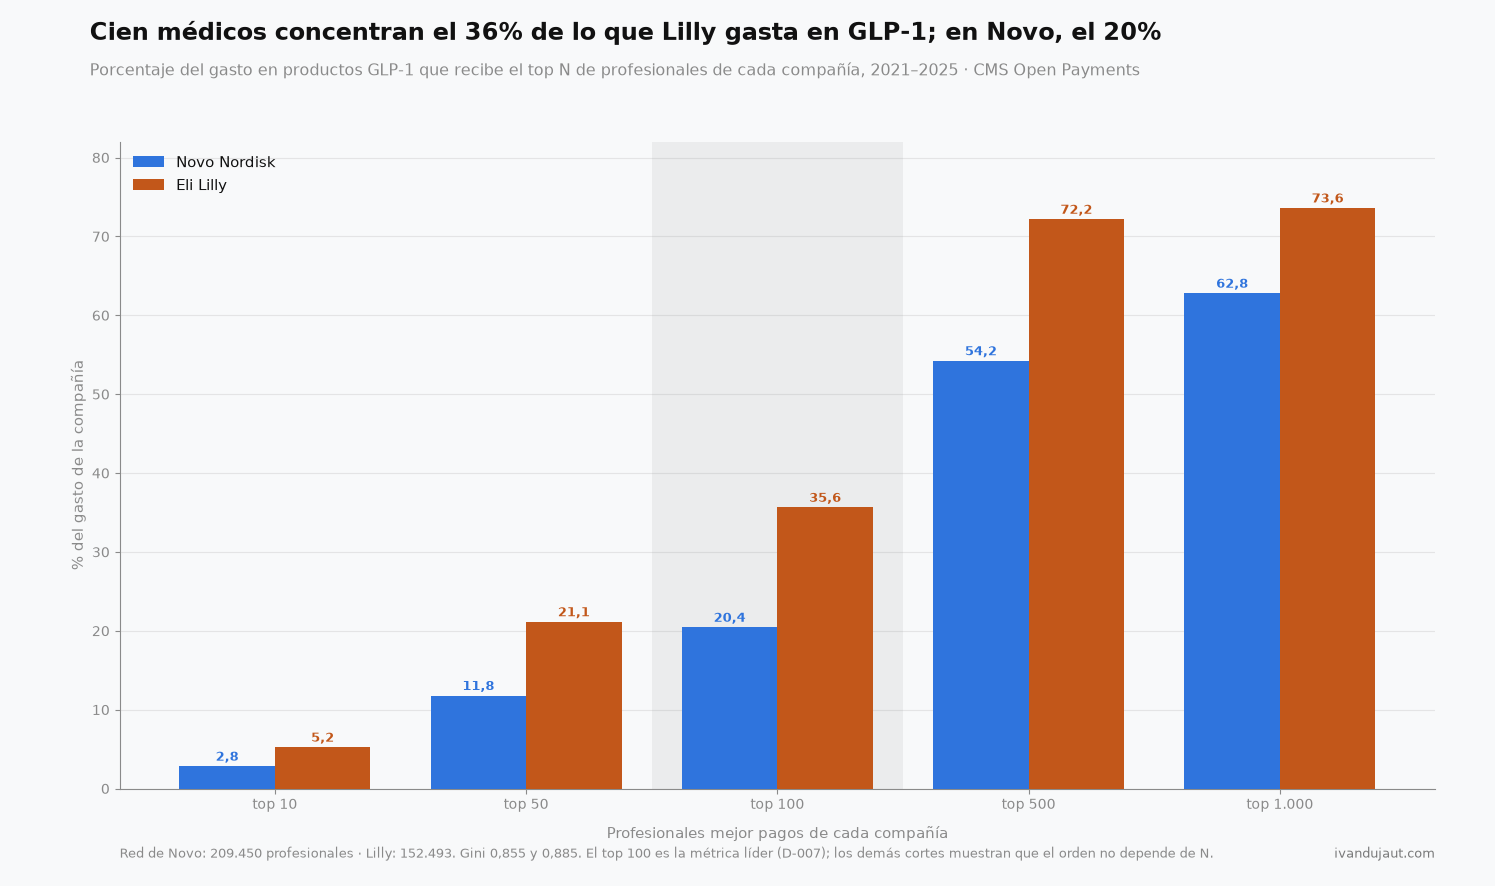
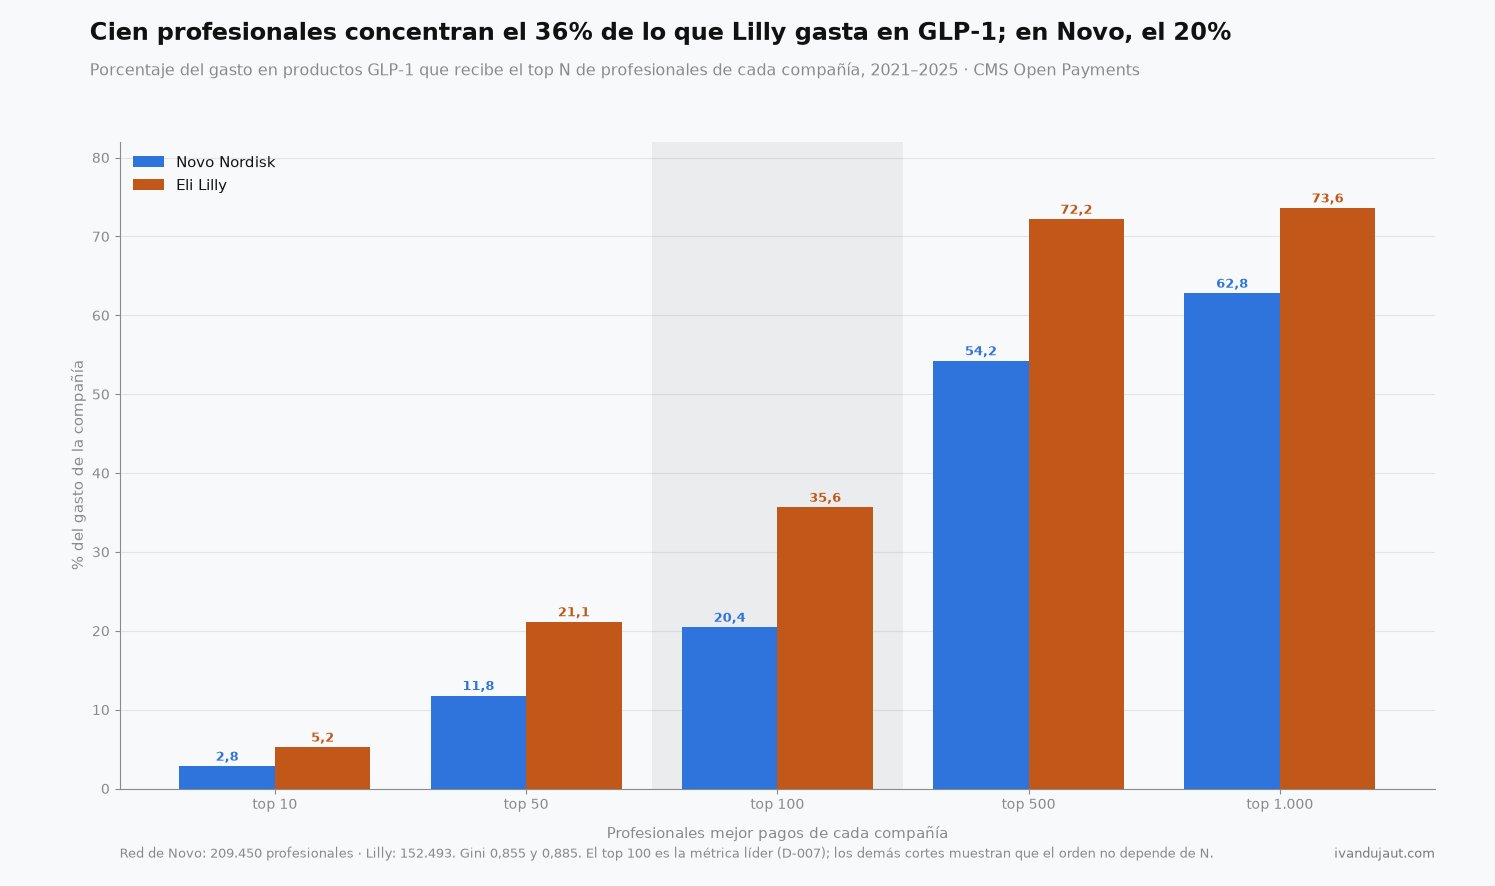
gráficos: cien profesionales, el redondeo con decimal y sin la glosa de Zepbound

Changed region(s): [[0.0923, 0.0, 0.8308, 0.0609]]

diff --git a/charts/g4_especialidades.py b/charts/g4_especialidades.py
@@ -30,7 +30,7 @@ TEXTOS = {
     "es": {
         "titulo": "5.367 endocrinólogos reciben casi el doble que 120.145 enfermeros y asistentes",
         "subtitulo": ("Gasto en GLP-1 por perfil del profesional que recibe el pago, 2021–2025. "
-                      "Lilly destina el 44% a endocrinología; Novo, el 31% · CMS Open Payments"),
+                      "Lilly destina el 43,6% a endocrinología; Novo, el 31,5% · CMS Open Payments"),
         "etiquetas": {
             "endocrinologia": "Endocrinología",
             "primaria": "Atención primaria\n(médico)",
@@ -51,7 +51,7 @@ TEXTOS = {
     "en": {
         "titulo": "5,367 endocrinologists receive nearly twice as much as 120,145 nurses and PAs",
         "subtitulo": ("GLP-1 spending by profile of the professional receiving the payment, 2021–2025. "
-                      "Lilly puts 44% into endocrinology; Novo, 31% · CMS Open Payments"),
+                      "Lilly puts 43.6% into endocrinology; Novo, 31.5% · CMS Open Payments"),
         "etiquetas": {
             "endocrinologia": "Endocrinology",
             "primaria": "Primary care\n(physician)",

diff --git a/charts/g5_convergencia.py b/charts/g5_convergencia.py
@@ -2,7 +2,7 @@
 
 Nace del ataque 08 (A5): el acumulado del corte 03 esconde una convergencia
 fuerte. La diferencia entre compañías en el peso de endocrinología pasó de 30
-puntos en 2023 a 3,3 en 2025.
+puntos en 2023 a 3,2 en 2025.
 
 Lee SOLO findings/cache/corte-03_especialidades.json (bloque serie).
 
@@ -30,7 +30,7 @@ TEXTOS = {
         "lilly": "Eli Lilly",
         "brecha": "brecha",
         "nota": ("El corte 03 publica el acumulado del período (Lilly 43,6% · Novo 31,5%), que esconde "
-                 "esta trayectoria. El pico de divergencia es 2023, el año del lanzamiento de Zepbound."),
+                 "esta trayectoria. El pico de divergencia es 2023."),
         "archivo": "g5_convergencia",
     },
     "en": {
@@ -42,7 +42,7 @@ TEXTOS = {
         "lilly": "Eli Lilly",
         "brecha": "gap",
         "nota": ("Cut 03 reports the period total (Lilly 43.6% · Novo 31.5%), which hides this path. "
-                 "Divergence peaks in 2023, the year Zepbound launched."),
+                 "Divergence peaks in 2023."),
         "archivo": "g5_convergencia.en",
     },
 }

diff --git a/charts/g3_concentracion.py b/charts/g3_concentracion.py
@@ -23,7 +23,7 @@ TOPS = (10, 50, 100, 500, 1000)
 
 TEXTOS = {
     "es": {
-        "titulo": "Cien médicos concentran el 36% de lo que Lilly gasta en GLP-1; en Novo, el 20%",
+        "titulo": "Cien profesionales concentran el 36% de lo que Lilly gasta en GLP-1; en Novo, el 20%",
         "subtitulo": ("Porcentaje del gasto en productos GLP-1 que recibe el top N de profesionales de cada "
                       "compañía, 2021–2025 · CMS Open Payments"),
         "ylabel": "% del gasto de la compañía",
@@ -36,7 +36,7 @@ TEXTOS = {
         "archivo": "g3_concentracion",
     },
     "en": {
-        "titulo": "One hundred doctors take 36% of Lilly's GLP-1 spending; at Novo, 20%",
+        "titulo": "One hundred professionals take 36% of Lilly's GLP-1 spending; at Novo, 20%",
         "subtitulo": ("Share of GLP-1 product spending going to each company's top N healthcare professionals, "
                       "2021–2025 · CMS Open Payments"),
         "ylabel": "% of company spending",
